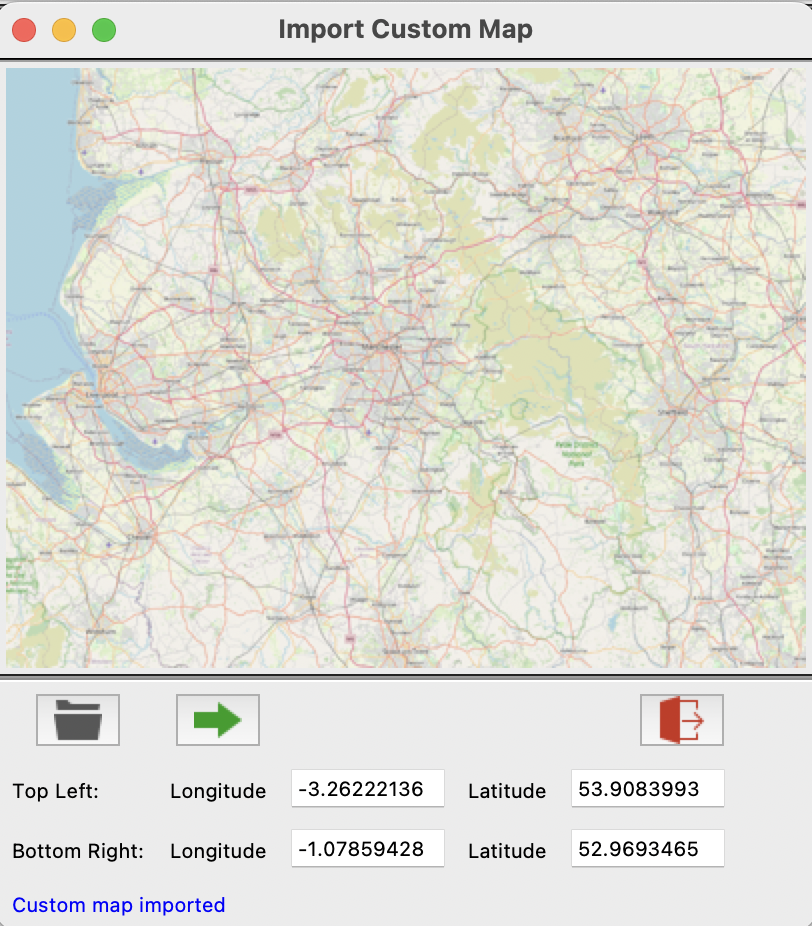
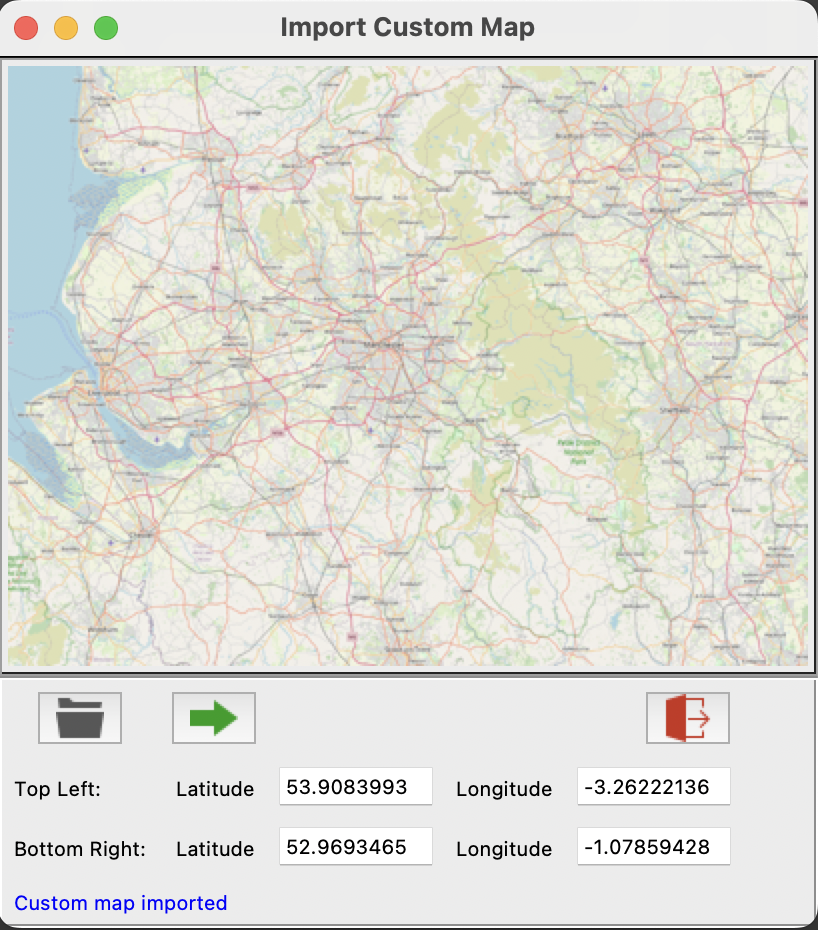
update importmap_dialog

diff --git a/src/pygpsclient/importmap_dialog.py b/src/pygpsclient/importmap_dialog.py
@@ -118,15 +118,15 @@ class ImportMapDialog(Toplevel):
             command=self._on_import,
         )
         self._lbl_tl = Label(self._frm_controls, text="Top Left:")
-        self._lbl_lontl = Label(self._frm_controls, text="Longitude")
-        self._ent_lontl = Entry(self._frm_controls, width=10, textvariable=self._lontl)
         self._lbl_lattl = Label(self._frm_controls, text="Latitude")
         self._ent_lattl = Entry(self._frm_controls, width=10, textvariable=self._lattl)
+        self._lbl_lontl = Label(self._frm_controls, text="Longitude")
+        self._ent_lontl = Entry(self._frm_controls, width=10, textvariable=self._lontl)
         self._lbl_br = Label(self._frm_controls, text="Bottom Right:")
-        self._lbl_lonbr = Label(self._frm_controls, text="Longitude")
-        self._ent_lonbr = Entry(self._frm_controls, width=10, textvariable=self._lonbr)
         self._lbl_latbr = Label(self._frm_controls, text="Latitude")
         self._ent_latbr = Entry(self._frm_controls, width=10, textvariable=self._latbr)
+        self._lbl_lonbr = Label(self._frm_controls, text="Longitude")
+        self._ent_lonbr = Entry(self._frm_controls, width=10, textvariable=self._lonbr)
         self._btn_exit = Button(
             self._frm_controls,
             image=self._img_exit,
@@ -148,15 +148,15 @@ class ImportMapDialog(Toplevel):
         self._btn_exit.grid(column=4, row=0, padx=3, pady=3, sticky=E)
 
         self._lbl_tl.grid(column=0, row=1, padx=3, pady=3, sticky=W)
-        self._lbl_lontl.grid(column=1, row=1, padx=3, pady=3, sticky=E)
-        self._ent_lontl.grid(column=2, row=1, padx=3, pady=3)
-        self._lbl_lattl.grid(column=3, row=1, padx=3, pady=3, sticky=E)
-        self._ent_lattl.grid(column=4, row=1, padx=3, pady=3)
+        self._lbl_lattl.grid(column=1, row=1, padx=3, pady=3, sticky=E)
+        self._ent_lattl.grid(column=2, row=1, padx=3, pady=3)
+        self._lbl_lontl.grid(column=3, row=1, padx=3, pady=3, sticky=E)
+        self._ent_lontl.grid(column=4, row=1, padx=3, pady=3)
         self._lbl_br.grid(column=0, row=2, padx=3, pady=3, sticky=W)
-        self._lbl_lonbr.grid(column=1, row=2, padx=3, pady=3, sticky=E)
-        self._ent_lonbr.grid(column=2, row=2, padx=3, pady=3)
-        self._lbl_latbr.grid(column=3, row=2, padx=3, pady=3, sticky=E)
-        self._ent_latbr.grid(column=4, row=2, padx=3, pady=3)
+        self._lbl_latbr.grid(column=1, row=2, padx=3, pady=3, sticky=E)
+        self._ent_latbr.grid(column=2, row=2, padx=3, pady=3)
+        self._lbl_lonbr.grid(column=3, row=2, padx=3, pady=3, sticky=E)
+        self._ent_lonbr.grid(column=4, row=2, padx=3, pady=3)
         self._lbl_status.grid(
             column=0, row=3, columnspan=5, padx=3, pady=3, sticky=(W, E)
         )
@@ -181,7 +181,7 @@ class ImportMapDialog(Toplevel):
         self._btn_import.config(state=DISABLED)
         if not HASRASTERIO:
             self._show_status(
-                "WARNING: rasterio library is not installed - bounds must be entered manually"
+                "Warning: rasterio library is not installed - bounds must be entered manually"
             )
         else:
             self._show_status()
@@ -202,7 +202,6 @@ class ImportMapDialog(Toplevel):
         :rtype: tuple
         """
 
-        # self.update_idletasks()  # Make sure we know about any resizing
         return (self.winfo_width(), self.winfo_height())
 
     def _on_resize(self, event):
@@ -233,53 +232,17 @@ class ImportMapDialog(Toplevel):
             return None  # User cancelled
         return custommap
 
-    def _draw_map(self, mappath="") -> ImageTk.PhotoImage:
-        """
-        Display selected custom map image.
-
-        :param str mappath: fully qualified path to map file
-        """
-
-        if mappath != "":
-            self._mapimg = ImageTk.PhotoImage(
-                Image.open(mappath).resize((self.width, self.mheight)),
-                Image.Resampling.BILINEAR,
-            )
-            self._canvas_map.create_image(0, 0, image=self._mapimg, anchor=NW)
-
     def _on_load(self):
         """
         Load custom map from file.
         """
 
+        self._show_status()
         self._custommap = self._open_mapfile()
         if self._custommap is not None:
             self._get_bounds(self._custommap)
             self._draw_map(self._custommap)
             self._btn_import.config(state=NORMAL)
-            self._show_status()
-
-    def _on_import(self):
-        """
-        Validate bounds and import custom file into saved config.
-        """
-
-        try:
-            lonmin = float(self._lontl.get())
-            lonmax = float(self._lonbr.get())
-            latmin = float(self._lattl.get())
-            latmax = float(self._latbr.get())
-        except ValueError:
-            self._show_status("ERROR: invalid bounds")
-            return
-
-        if lonmax + 180 <= lonmin + 180 or latmax + 90 >= latmin + 90:
-            self._show_status("ERROR: bottom right bounds must be SE of top left")
-        else:
-            usermaps = self.__app.saved_config.get("usermaps_l", [])
-            usermaps.append([self._custommap, [latmin, lonmin, latmax, lonmax]])
-            self.__app.saved_config["usermaps_l"] = usermaps
-            self._show_status("Custom map imported", "blue")
 
     def _get_bounds(self, mappath) -> tuple:
         """
@@ -297,13 +260,49 @@ class ImportMapDialog(Toplevel):
                 )
             except Exception:  # pylint: disable=broad-exception-caught
                 self._show_status(
-                    "WARNING: image is not georeferenced - bounds must be entered manually"
+                    "Warning: image is not georeferenced - bounds must be entered manually"
                 )
 
         self._lontl.set(round(lonmin, 8))
         self._lattl.set(round(latmax, 8))
         self._lonbr.set(round(lonmax, 8))
         self._latbr.set(round(latmin, 8))
+
+    def _draw_map(self, mappath="") -> ImageTk.PhotoImage:
+        """
+        Display selected custom map image.
+
+        :param str mappath: fully qualified path to map file
+        """
+
+        if mappath != "":
+            self._mapimg = ImageTk.PhotoImage(
+                Image.open(mappath).resize((self.width, self.mheight)),
+                Image.Resampling.BILINEAR,
+            )
+            self._canvas_map.create_image(0, 0, image=self._mapimg, anchor=NW)
+
+    def _on_import(self):
+        """
+        Validate bounds and import custom file into saved config.
+        """
+
+        try:
+            lonmin = float(self._lontl.get())
+            lonmax = float(self._lonbr.get())
+            latmin = float(self._lattl.get())
+            latmax = float(self._latbr.get())
+        except ValueError:
+            self._show_status("Error: invalid bounds")
+            return
+
+        if lonmax + 180 <= lonmin + 180 or latmax + 90 >= latmin + 90:
+            self._show_status("Error: bottom right bounds must be SE of top left")
+        else:
+            usermaps = self.__app.saved_config.get("usermaps_l", [])
+            usermaps.append([self._custommap, [latmin, lonmin, latmax, lonmax]])
+            self.__app.saved_config["usermaps_l"] = usermaps
+            self._show_status("Custom map imported", "blue")
 
     def _show_status(self, msg: str = "", col: str = "red"):
         """
@@ -314,11 +313,4 @@ class ImportMapDialog(Toplevel):
         """
 
         self._lbl_status.config(text=msg, fg=col)
-
-    @property
-    def mapimage(self) -> ImageTk.PhotoImage:
-        """
-        Getter for image of map.
-        """
-
-        return self._mapimg
+        self.update_idletasks()
